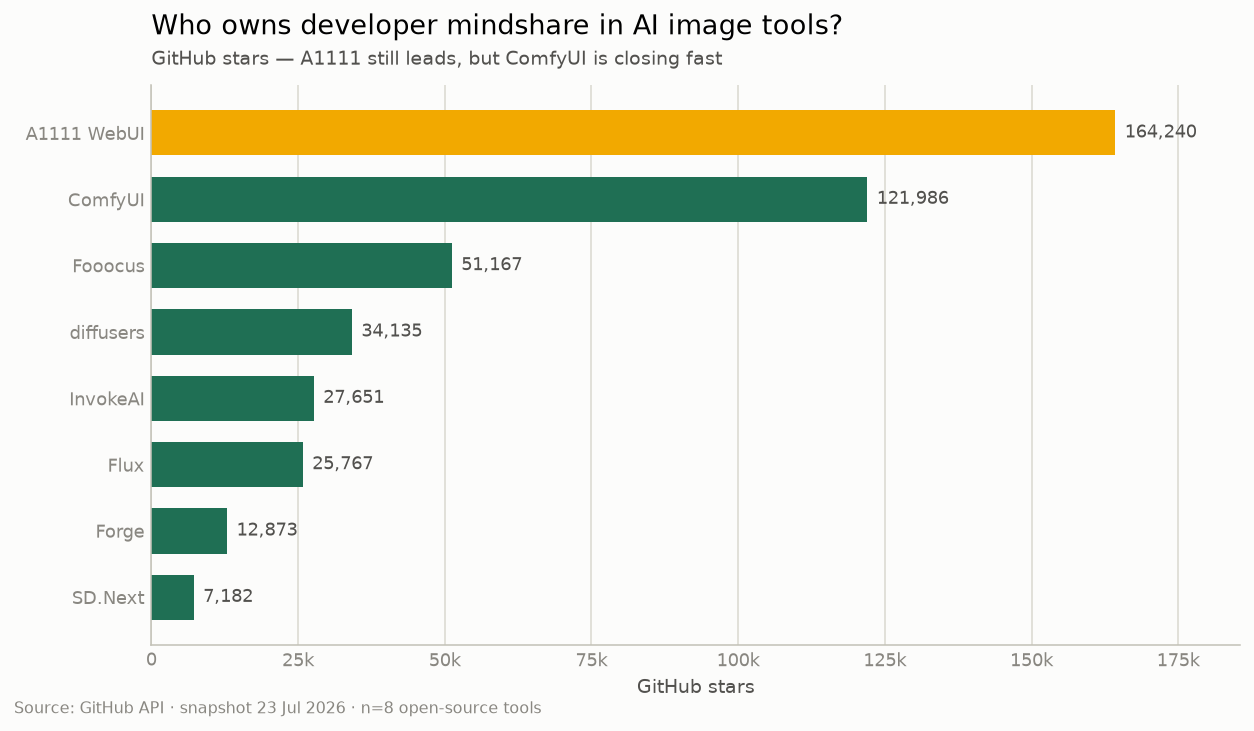
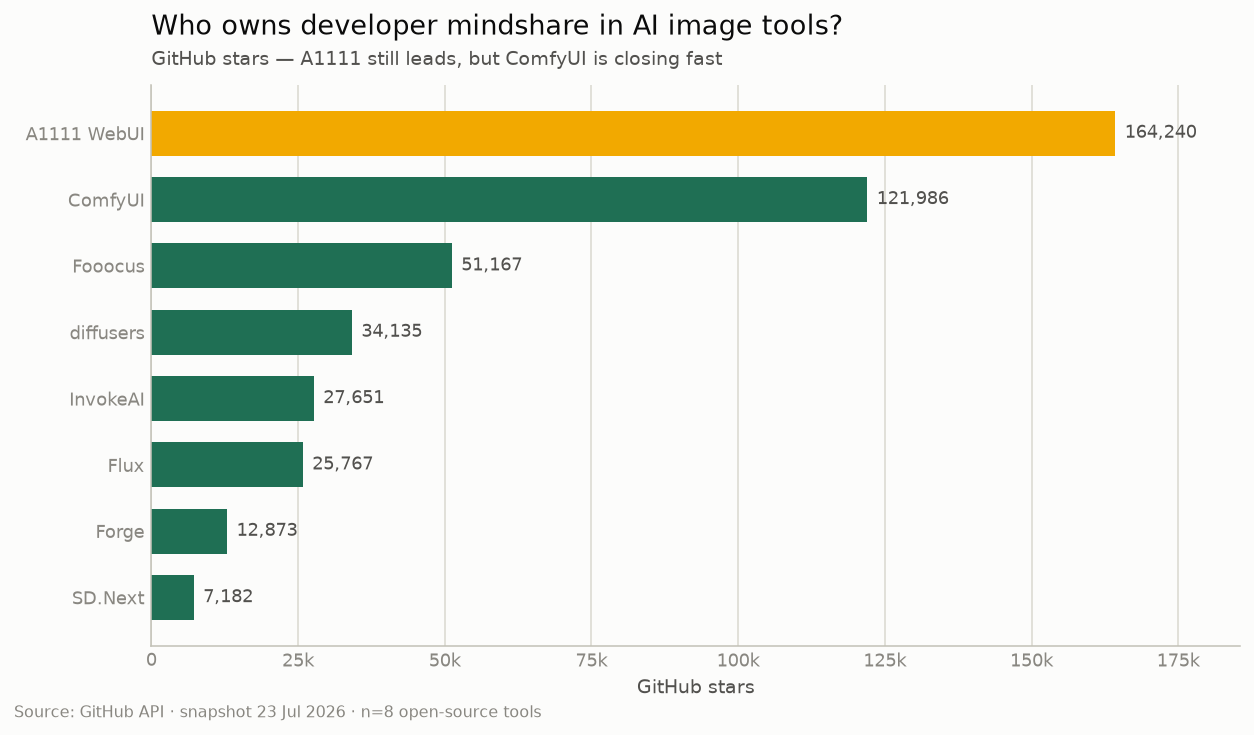
Compress package back under the 200-line guideline
Tighten plots.py and drop the unused missing_plot chart (the EDA missing()
helper still covers nulls). Importable package is now 173 lines
(__init__ 10 + core 33 + plots 130), down from 308, with no loss of the
four charts' McCandless features. Charts regenerate identically.

diff --git a/src/simple_eda/plots.py b/src/simple_eda/plots.py
@@ -1,18 +1,7 @@
-"""Plotting helpers.
-
-Each function takes a DataFrame, applies one deliberate house style, and
-*returns* a matplotlib ``Figure`` (it never calls ``show`` and never modifies
-the DataFrame).
-
-Design goals follow McCandless's four lenses for good information design:
-  - Form         one recessive base color, one gold accent on the key value;
-                 hairline chrome, direct labels, "k" number formatting.
-  - Function     human-readable titles/axes, subtitles that state the takeaway.
-  - Integrity    every chart carries an optional source/date footer, so the
-                 numbers are attributable.
-  - Interestingness  the caller supplies the question (title) and the "so what"
-                 (subtitle); the accent color answers it at a glance.
-"""
+"""Styled matplotlib charts. Each takes a DataFrame and returns a Figure
+(never shows, never mutates). One idea: spend the single gold accent on the
+value that matters; everything else recedes. title / subtitle / source= follow
+McCandless's lenses (interestingness, function, form, integrity)."""
 
 import numpy as np
 import matplotlib.pyplot as plt
@@ -20,233 +9,122 @@ import matplotlib.colors as mcolors
 from matplotlib.ticker import FuncFormatter
 import pandas as pd
 
-# --- house palette ------------------------------------------------------------
-SURFACE = "#fcfcfb"    # soft off-white, easier on the eye than stark white
-INK = "#0b0b0b"        # primary text
-SECONDARY = "#52514e"  # axis titles / value labels
-MUTED = "#898781"      # tick labels / source footer
-GRID = "#e1e0d9"       # hairline gridlines
-BASELINE = "#c3c2b7"   # the one axis line we keep
-GREEN = "#1f6f54"      # recessive base mark (school green)
-GOLD = "#f2a900"       # the one accent, reserved for the key value (school gold)
-# green and gold differ strongly in BOTH hue and lightness, so the highlight
-# survives colorblindness (lightness carries it when hue washes out).
-DIVERGING = mcolors.LinearSegmentedColormap.from_list(
-    "eda_diverging", ["#256abf", "#f0efec", "#d03b3b"]
-)
+SURFACE, INK, SECONDARY, MUTED = "#fcfcfb", "#0b0b0b", "#52514e", "#898781"
+GRID, BASELINE = "#e1e0d9", "#c3c2b7"
+GREEN, GOLD = "#1f6f54", "#f2a900"   # recessive base + the one accent (school colors)
+# green/gold differ in hue AND lightness, so the accent survives colorblindness.
+DIVERGING = mcolors.LinearSegmentedColormap.from_list("d", ["#256abf", "#f0efec", "#d03b3b"])
 
 
-def _thousands(x, _pos=None):
-    """Axis tick formatter: 25000 -> '25k', 1500000 -> '2M'."""
-    ax = abs(x)
-    if ax >= 1_000_000:
-        return f"{x / 1_000_000:.0f}M"
-    if ax >= 1_000:
-        return f"{x / 1_000:.0f}k"
-    return f"{x:.0f}"
+def _k(x, _p=None):
+    a = abs(x)
+    return f"{x/1e6:.0f}M" if a >= 1e6 else f"{x/1e3:.0f}k" if a >= 1e3 else f"{x:.0f}"
 
 
-def _style(ax) -> None:
-    """Apply the recessive house chrome to one axes: no clutter, data first."""
-    ax.set_facecolor(SURFACE)
-    ax.figure.set_facecolor(SURFACE)
-    for side in ("top", "right"):
-        ax.spines[side].set_visible(False)
-    for side in ("left", "bottom"):
-        ax.spines[side].set_color(BASELINE)
+def _style(ax):
+    ax.set_facecolor(SURFACE); ax.figure.set_facecolor(SURFACE); ax.set_axisbelow(True)
+    for s in ("top", "right"): ax.spines[s].set_visible(False)
+    for s in ("left", "bottom"): ax.spines[s].set_color(BASELINE)
     ax.tick_params(colors=MUTED, labelsize=9, length=0)
-    ax.title.set_color(INK)
-    ax.xaxis.label.set_color(SECONDARY)
-    ax.yaxis.label.set_color(SECONDARY)
 
 
-def _titles(ax, title, subtitle):
-    """Left-aligned title with an optional subtitle (the takeaway) beneath it."""
-    ax.set_title(title, loc="left", fontsize=14, pad=26 if subtitle else 12)
+def _frame(fig, ax, title, subtitle=None, source=None):
+    """Title + optional takeaway subtitle + optional source footer (integrity)."""
+    ax.set_title(title, loc="left", color=INK, fontsize=14, pad=26 if subtitle else 12)
     if subtitle:
-        ax.annotate(subtitle, xy=(0, 1), xytext=(0, 8), xycoords="axes fraction",
-                    textcoords="offset points", ha="left", va="bottom",
-                    color=SECONDARY, fontsize=10)
-
-
-def _footer(fig, source):
-    """Muted source/date line at the bottom-left — attribution = integrity."""
+        ax.annotate(subtitle, (0, 1), (0, 8), "axes fraction", "offset points",
+                    ha="left", va="bottom", color=SECONDARY, fontsize=10)
     if source:
-        fig.text(0.01, 0.005, source, ha="left", va="bottom",
-                 color=MUTED, fontsize=8)
+        fig.text(0.01, 0.005, source, color=MUTED, fontsize=8)
 
 
-def missing_plot(df: pd.DataFrame, source=None):
-    """Horizontal bar of missing-value counts per column, highest on top."""
-    counts = df.isna().sum().sort_values()
-    counts = counts[counts > 0]
-
-    fig, ax = plt.subplots(figsize=(7, max(2, 0.45 * len(counts) + 1)))
-    _style(ax)
-    if counts.empty:
-        ax.text(0.5, 0.5, "No missing values", ha="center", va="center",
-                color=MUTED, fontsize=12, transform=ax.transAxes)
-        ax.set_xticks([]); ax.set_yticks([])
-        return fig
-
-    ax.barh(counts.index, counts.values, color=GREEN, height=0.65)
-    ax.xaxis.grid(True, color=GRID, linewidth=1)
-    ax.set_axisbelow(True)
-    for y, v in enumerate(counts.values):
-        ax.text(v, y, f" {int(v)}", va="center", ha="left",
-                color=SECONDARY, fontsize=9)
-    ax.set_title("Missing values per column", loc="left", fontsize=13, pad=12)
-    ax.set_xlabel("count")
-    _footer(fig, source)
-    fig.tight_layout()
-    return fig
-
-
-def histogram(df: pd.DataFrame, column: str, bins: int = 24, highlight="median",
-              title=None, subtitle=None, xlabel=None, source=None):
-    """Distribution of one numeric column, with the median's bin marked in gold.
-
-    ``highlight`` may be ``"median"``, ``"mean"``, a number, or ``None``.
-    """
-    series = df[column].dropna()
-
-    fig, ax = plt.subplots(figsize=(9, 5))
-    _style(ax)
-    counts, edges, patches = ax.hist(series, bins=bins, color=GREEN,
-                                     edgecolor=SURFACE, linewidth=1.2)
+def histogram(df, column, bins=24, highlight="median", title=None, subtitle=None,
+              xlabel=None, source=None):
+    """Distribution of one numeric column; the median's bin is marked in gold."""
+    s = df[column].dropna()
+    fig, ax = plt.subplots(figsize=(9, 5)); _style(ax)
+    counts, edges, bars = ax.hist(s, bins=bins, color=GREEN, edgecolor=SURFACE, linewidth=1.2)
     ax.yaxis.grid(True, color=GRID, linewidth=1)
-    ax.set_axisbelow(True)
-    ax.xaxis.set_major_formatter(FuncFormatter(_thousands))
-
-    marker = {"median": series.median(), "mean": series.mean()}.get(highlight,
-                                                                     highlight)
-    if marker is not None:
-        idx = int(np.clip(np.digitize(marker, edges) - 1, 0, len(patches) - 1))
-        patches[idx].set_facecolor(GOLD)
-        label = (highlight if isinstance(highlight, str) else "value").upper()
-        ax.text(patches[idx].get_x() + patches[idx].get_width() / 2,
-                counts[idx] / 2, f"{label} {marker:,.0f}", rotation=90,
-                ha="center", va="center", color=INK, fontsize=10, weight="bold")
-
-    _titles(ax, title or f"Distribution of {column}", subtitle)
-    ax.set_xlabel(xlabel or column)
-    ax.set_ylabel("frequency")
-    _footer(fig, source)
-    fig.tight_layout()
-    return fig
+    ax.xaxis.set_major_formatter(FuncFormatter(_k))
+    m = {"median": s.median(), "mean": s.mean()}.get(highlight, highlight)
+    if m is not None:
+        i = int(np.clip(np.digitize(m, edges) - 1, 0, len(bars) - 1))
+        bars[i].set_facecolor(GOLD)
+        lbl = (highlight if isinstance(highlight, str) else "value").upper()
+        ax.text(bars[i].get_x() + bars[i].get_width() / 2, counts[i] / 2,
+                f"{lbl} {m:,.0f}", rotation=90, ha="center", va="center",
+                color=INK, fontsize=10, weight="bold")
+    _frame(fig, ax, title or f"Distribution of {column}", subtitle, source)
+    ax.set_xlabel(xlabel or column, color=SECONDARY); ax.set_ylabel("frequency", color=SECONDARY)
+    fig.tight_layout(); return fig
 
 
-def ranked_bar(df: pd.DataFrame, label_col: str, value_col: str, top=None,
-               title=None, subtitle=None, xlabel=None, source=None):
-    """Horizontal ranked bar; the #1 value is accented in gold, rest recessive."""
-    data = df[[label_col, value_col]].dropna().sort_values(value_col)
-    if top:
-        data = data.tail(top)
-    labels = data[label_col].astype(str).tolist()
-    values = data[value_col].tolist()
-    colors = [GREEN] * len(values)
-    colors[-1] = GOLD  # last (largest, top of chart) is the leader
-
-    fig, ax = plt.subplots(figsize=(9, max(2.5, 0.5 * len(values) + 1.2)))
-    _style(ax)
+def ranked_bar(df, label_col, value_col, top=None, title=None, subtitle=None,
+               xlabel=None, source=None):
+    """Horizontal ranked bar; the #1 value is gold, the rest recede."""
+    d = df[[label_col, value_col]].dropna().sort_values(value_col)
+    if top: d = d.tail(top)
+    labels, values = d[label_col].astype(str).tolist(), d[value_col].tolist()
+    colors = [GREEN] * len(values); colors[-1] = GOLD
+    fig, ax = plt.subplots(figsize=(9, max(2.5, 0.5 * len(values) + 1.2))); _style(ax)
     ax.barh(labels, values, color=colors, height=0.68)
     ax.xaxis.grid(True, color=GRID, linewidth=1)
-    ax.set_axisbelow(True)
-    ax.xaxis.set_major_formatter(FuncFormatter(_thousands))
+    ax.xaxis.set_major_formatter(FuncFormatter(_k))
     pad = max(values) * 0.01
     for y, v in enumerate(values):
-        ax.text(v + pad, y, f"{v:,.0f}", va="center", ha="left",
-                color=SECONDARY, fontsize=9)
+        ax.text(v + pad, y, f"{v:,.0f}", va="center", color=SECONDARY, fontsize=9)
     ax.margins(x=0.13)
-    _titles(ax, title or f"{value_col} by {label_col}", subtitle)
-    ax.set_xlabel(xlabel or value_col)
-    _footer(fig, source)
-    fig.tight_layout()
-    return fig
+    _frame(fig, ax, title or f"{value_col} by {label_col}", subtitle, source)
+    ax.set_xlabel(xlabel or value_col, color=SECONDARY)
+    fig.tight_layout(); return fig
 
 
-def scatter(df: pd.DataFrame, x: str, y: str, label_col=None, highlight=None,
-            logx=False, title=None, subtitle=None, xlabel=None, ylabel=None,
-            vline=None, hline=None, source=None):
-    """Scatter of two numeric columns; ``highlight`` (a label) is drawn in gold.
-
-    Handy as a "traction quadrant": installed base on x, growth on y. Pass
-    ``vline`` / ``hline`` (e.g. the medians) to split the plane into quadrants.
-    """
-    data = df.dropna(subset=[x, y])
-    fig, ax = plt.subplots(figsize=(9.5, 6.2))
-    _style(ax)
-
-    # quadrant reference lines (drawn first, so they sit behind the marks)
-    if vline is not None:
-        ax.axvline(vline, color=BASELINE, linewidth=1, linestyle=(0, (4, 4)))
-    if hline is not None:
-        ax.axhline(hline, color=BASELINE, linewidth=1, linestyle=(0, (4, 4)))
-
-    hi_mask = (data[label_col] == highlight) if (label_col and highlight) \
-        else pd.Series(False, index=data.index)
-    ax.scatter(data.loc[~hi_mask, x], data.loc[~hi_mask, y], s=130,
-               color=GREEN, edgecolor=SURFACE, linewidth=1.5, zorder=3)
-    if hi_mask.any():
-        ax.scatter(data.loc[hi_mask, x], data.loc[hi_mask, y], s=240,
-                   color=GOLD, edgecolor=SURFACE, linewidth=1.5, zorder=4)
-
+def scatter(df, x, y, label_col=None, highlight=None, logx=False, title=None,
+            subtitle=None, xlabel=None, ylabel=None, vline=None, hline=None, source=None):
+    """Scatter / traction quadrant; highlight= (a label) is drawn in gold.
+    Pass vline/hline (e.g. medians) to split the plane into quadrants."""
+    d = df.dropna(subset=[x, y])
+    fig, ax = plt.subplots(figsize=(9.5, 6.2)); _style(ax)
+    if vline is not None: ax.axvline(vline, color=BASELINE, lw=1, ls=(0, (4, 4)))
+    if hline is not None: ax.axhline(hline, color=BASELINE, lw=1, ls=(0, (4, 4)))
+    hi = (d[label_col] == highlight) if (label_col and highlight) else pd.Series(False, index=d.index)
+    ax.scatter(d.loc[~hi, x], d.loc[~hi, y], s=130, color=GREEN, edgecolor=SURFACE, linewidth=1.5, zorder=3)
+    if hi.any():
+        ax.scatter(d.loc[hi, x], d.loc[hi, y], s=240, color=GOLD, edgecolor=SURFACE, linewidth=1.5, zorder=4)
     if label_col:
-        for _, r in data.iterrows():
-            is_hi = r[label_col] == highlight
-            ax.annotate(str(r[label_col]), (r[x], r[y]),
-                        xytext=(10, 7), textcoords="offset points",
-                        color=INK if is_hi else SECONDARY, fontsize=9,
-                        weight="bold" if is_hi else "normal", zorder=5)
-
-    if logx:
-        ax.set_xscale("log")
+        for _, r in d.iterrows():
+            k = r[label_col] == highlight
+            ax.annotate(str(r[label_col]), (r[x], r[y]), xytext=(10, 7),
+                        textcoords="offset points", color=INK if k else SECONDARY,
+                        fontsize=9, weight="bold" if k else "normal", zorder=5)
+    if logx: ax.set_xscale("log")
     ax.grid(True, color=GRID, linewidth=1)
-    ax.set_axisbelow(True)
-    ax.yaxis.set_major_formatter(FuncFormatter(_thousands))
-    if not logx:
-        ax.xaxis.set_major_formatter(FuncFormatter(_thousands))
+    ax.yaxis.set_major_formatter(FuncFormatter(_k))
+    if not logx: ax.xaxis.set_major_formatter(FuncFormatter(_k))
     ax.margins(0.14)
-    _titles(ax, title or f"{y} vs {x}", subtitle)
-    ax.set_xlabel((xlabel or x) + (" (log scale)" if logx else ""))
-    ax.set_ylabel(ylabel or y)
-    _footer(fig, source)
-    fig.tight_layout()
-    return fig
+    _frame(fig, ax, title or f"{y} vs {x}", subtitle, source)
+    ax.set_xlabel((xlabel or x) + (" (log scale)" if logx else ""), color=SECONDARY)
+    ax.set_ylabel(ylabel or y, color=SECONDARY)
+    fig.tight_layout(); return fig
 
 
-def correlation_heatmap(df: pd.DataFrame, title=None, source=None):
-    """Heatmap of numeric correlations on a diverging blue-red ramp.
-
-    Correlation is signed (-1 to +1), so the color has polarity: blue pulls one
-    way, red the other, and neutral gray marks zero. The scale is locked to
-    [-1, 1] so gray always means "no correlation."
-    """
-    corr = df.select_dtypes(include="number").corr()
-    n = len(corr)
-
+def correlation_heatmap(df, title=None, source=None):
+    """Numeric correlations on a diverging blue-gray-red ramp, locked to [-1, 1]."""
+    c = df.select_dtypes(include="number").corr(); n = len(c)
     fig, ax = plt.subplots(figsize=(1 + 0.75 * n, 1 + 0.75 * n))
-    ax.set_facecolor(SURFACE)
-    fig.set_facecolor(SURFACE)
-    im = ax.imshow(corr.values, cmap=DIVERGING, vmin=-1, vmax=1)
-
-    ax.set_xticks(range(n), corr.columns, rotation=45, ha="right",
-                  color=MUTED, fontsize=9)
-    ax.set_yticks(range(n), corr.index, color=MUTED, fontsize=9)
-    for spine in ax.spines.values():
-        spine.set_visible(False)
+    ax.set_facecolor(SURFACE); fig.set_facecolor(SURFACE)
+    im = ax.imshow(c.values, cmap=DIVERGING, vmin=-1, vmax=1)
+    ax.set_xticks(range(n), c.columns, rotation=45, ha="right", color=MUTED, fontsize=9)
+    ax.set_yticks(range(n), c.index, color=MUTED, fontsize=9)
+    for s in ax.spines.values(): s.set_visible(False)
     ax.tick_params(length=0)
     for i in range(n):
         for j in range(n):
-            val = corr.values[i, j]
-            ax.text(j, i, f"{val:.2f}", ha="center", va="center", fontsize=8,
-                    color=INK if abs(val) < 0.6 else SURFACE)
-
-    cbar = fig.colorbar(im, ax=ax, fraction=0.046, pad=0.04)
-    cbar.outline.set_visible(False)
-    cbar.ax.tick_params(colors=MUTED, length=0, labelsize=8)
-    ax.set_title(title or "Correlation", loc="left", fontsize=14, pad=12,
-                 color=INK)
-    _footer(fig, source)
-    fig.tight_layout()
-    return fig
+            v = c.values[i, j]
+            ax.text(j, i, f"{v:.2f}", ha="center", va="center", fontsize=8,
+                    color=INK if abs(v) < 0.6 else SURFACE)
+    cb = fig.colorbar(im, ax=ax, fraction=0.046, pad=0.04)
+    cb.outline.set_visible(False); cb.ax.tick_params(colors=MUTED, length=0, labelsize=8)
+    ax.set_title(title or "Correlation", loc="left", color=INK, fontsize=14, pad=12)
+    if source: fig.text(0.01, 0.005, source, color=MUTED, fontsize=8)
+    fig.tight_layout(); return fig

diff --git a/src/simple_eda/__init__.py b/src/simple_eda/__init__.py
@@ -1,23 +1,10 @@
-"""simple_eda: pandas-based EDA helpers plus a few styled matplotlib charts."""
+"""simple_eda: pandas-based EDA helpers plus styled matplotlib charts."""
 
 from .core import summarize, missing, numeric_columns, categorical_columns
-from .plots import (
-    missing_plot,
-    histogram,
-    ranked_bar,
-    scatter,
-    correlation_heatmap,
-)
+from .plots import histogram, ranked_bar, scatter, correlation_heatmap
 
 __version__ = "0.3.0"
 __all__ = [
-    "summarize",
-    "missing",
-    "numeric_columns",
-    "categorical_columns",
-    "missing_plot",
-    "histogram",
-    "ranked_bar",
-    "scatter",
-    "correlation_heatmap",
+    "summarize", "missing", "numeric_columns", "categorical_columns",
+    "histogram", "ranked_bar", "scatter", "correlation_heatmap",
 ]

diff --git a/README.md b/README.md
@@ -40,7 +40,6 @@ Each takes a DataFrame and **returns a matplotlib `Figure`** (never calls
 | `scatter(df, x, y, label_col=, highlight=)` | labeled scatter / traction quadrant |
 | `histogram(df, column)` | distribution with the median bin in gold |
 | `correlation_heatmap(df)` | diverging blue→gray→red heatmap |
-| `missing_plot(df)` | horizontal bar of missing counts |
 
 ### Aesthetic choices
 
